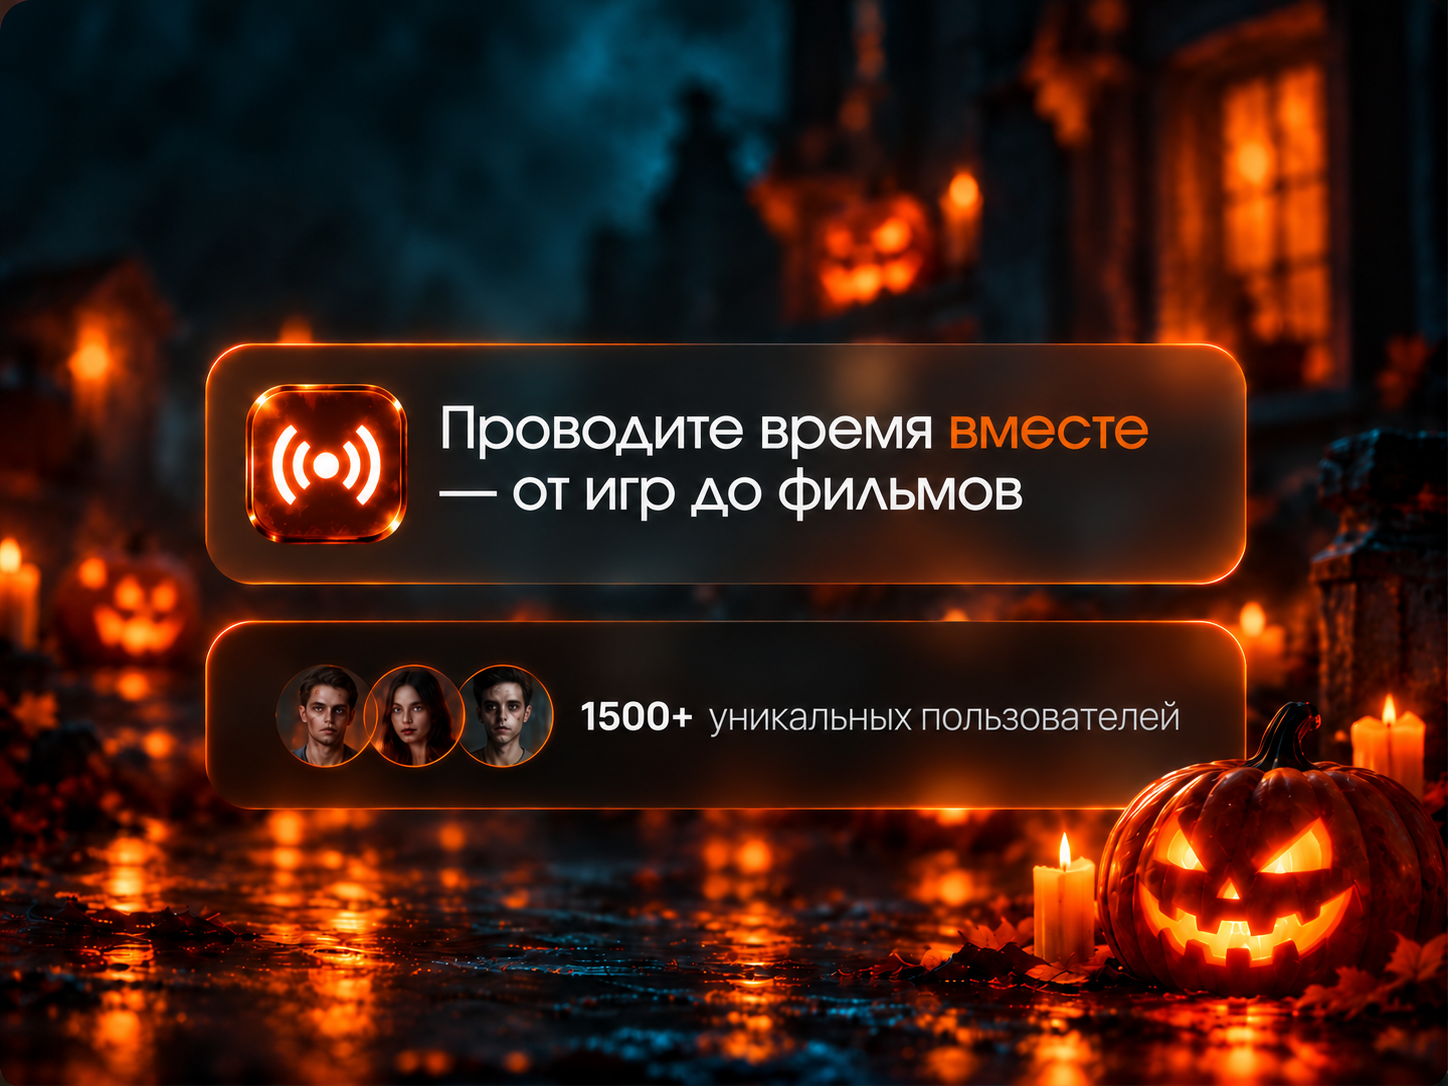
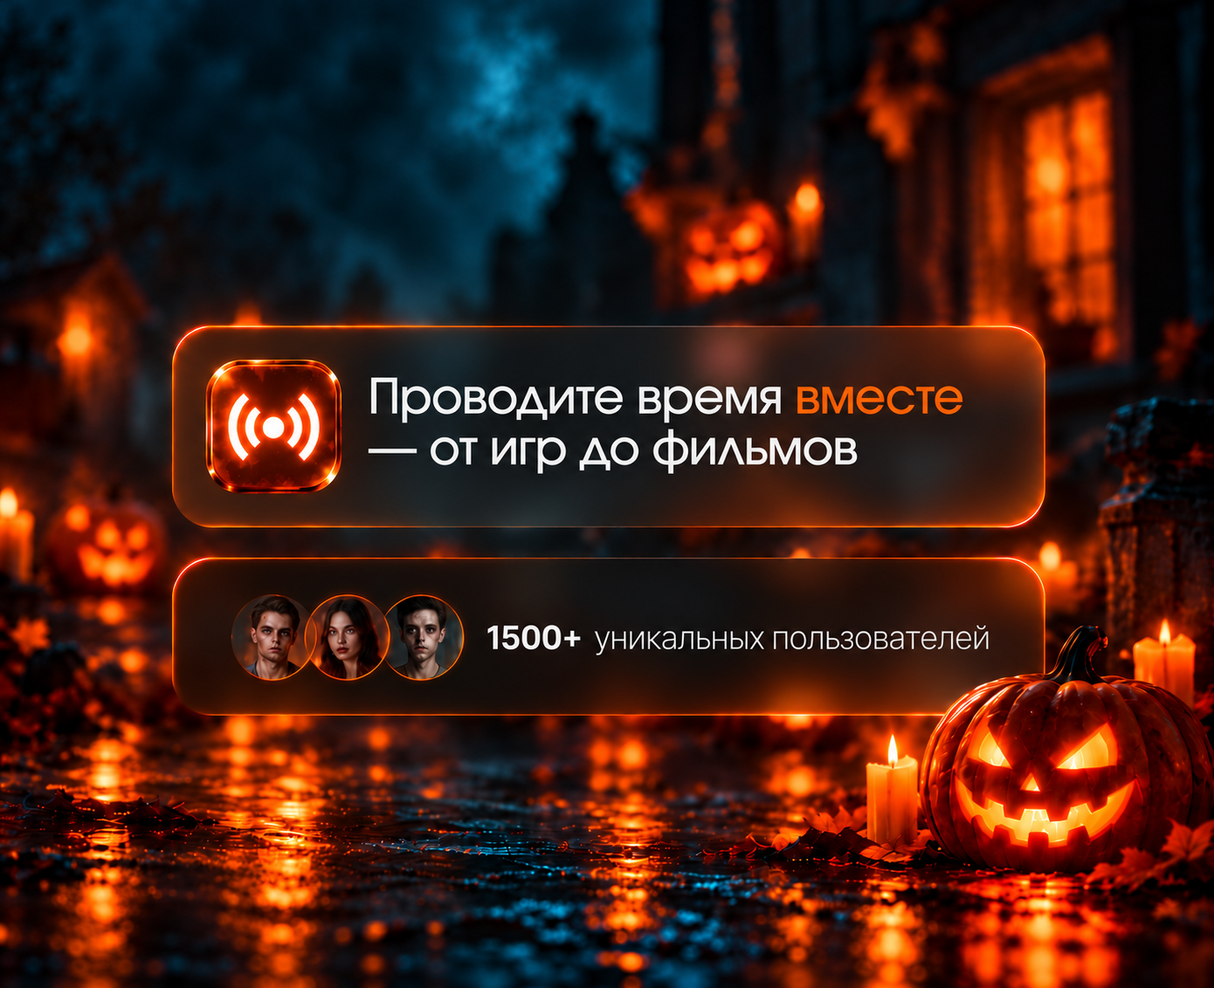
86 add fix

diff --git a/frontend/halloween/README.md b/frontend/halloween/README.md
@@ -10,7 +10,7 @@
 
 Отдельно, по просьбе пользователя, `frontend/src/assets/images/killPlayer.png` заменён на постоянную иллюстрацию: мафиози в федоре, убитый игрок и бирюзовый призрак. Она используется и без Halloween и остаётся после отката темы. Для Halloween в этой папке находится другая версия `killPlayer.png`. В обычном `frontend/src/assets/images/carousel-image2.png` также обновлена надпись на «1500+ уникальных пользователей»; эта правка остаётся после отката темы. Остальные исходные изображения в `frontend/src/assets/images/` сохранены.
 
-Первые два сезонных слайда `carousel-image1.png` и `carousel-image2.png` используют прикреплённые пользователем изображения 1448×1086. На втором слайде надпись обновлена на «1500+ уникальных пользователей», как и в обычной версии. Повторный HTML-слой скрыт только для этих двух слайдов. Картинки заполняют всю область карусели 607×494 через `object-fit: cover`, без пустых полос и искажения пропорций. Для согласования пропорций слегка подрезаются боковые края; текст и основные детали остаются видны. Остальные слайды сохраняют прежние изображения и отдельный текстовый слой. Сезонные изменения целиком находятся в папке темы.
+Первые два сезонных слайда `carousel-image1.png` и `carousel-image2.png` используют прикреплённые пользователем изображения с дорисованным фоном сверху и снизу. Для расширения использован встроенный image_gen с задачей: «Продолжить только фон сверху и снизу, сохранить всю композицию, предметы и надписи, без полос и обрезки». Оба итоговых PNG имеют точное разрешение 1214×988, вдвое больше области карусели 607×494 с тем же соотношением сторон; поэтому они заполняют её без обрезки, растяжения и пустых полос. На втором слайде сохранена надпись «1500+ уникальных пользователей», как и в обычной версии. Повторный HTML-слой скрыт только для этих двух слайдов. Остальные слайды сохраняют прежние изображения и отдельный текстовый слой. Сезонные изменения целиком находятся в папке темы.
 
 В комнате сезонные изображения заменяют шесть игровых статусов, сохраняя прежние условия их показа:
 
